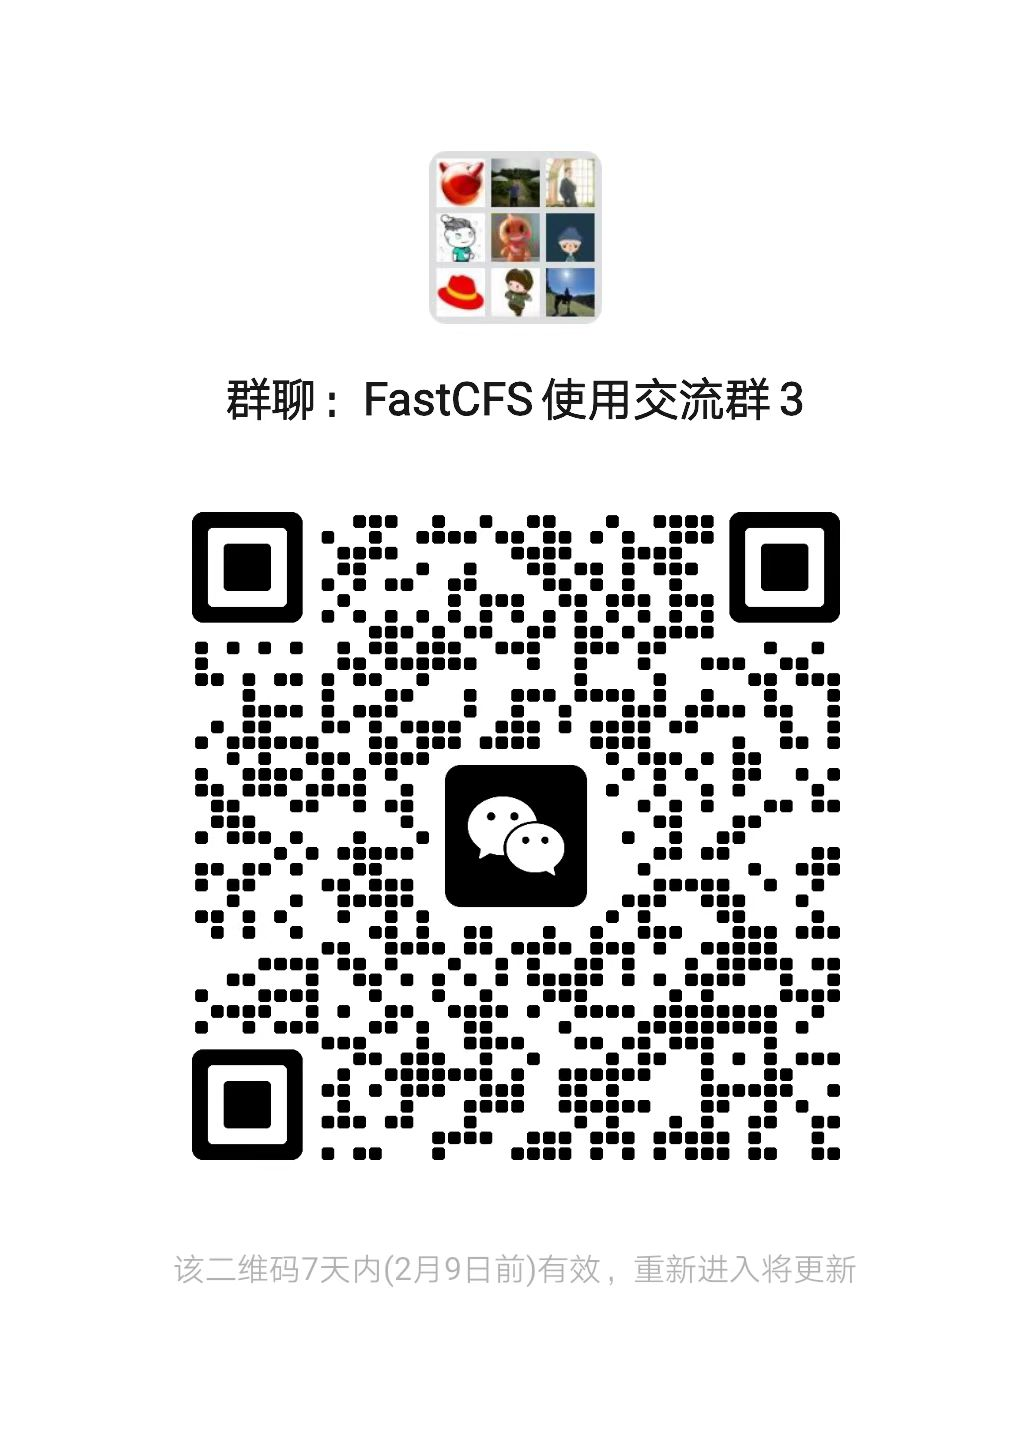
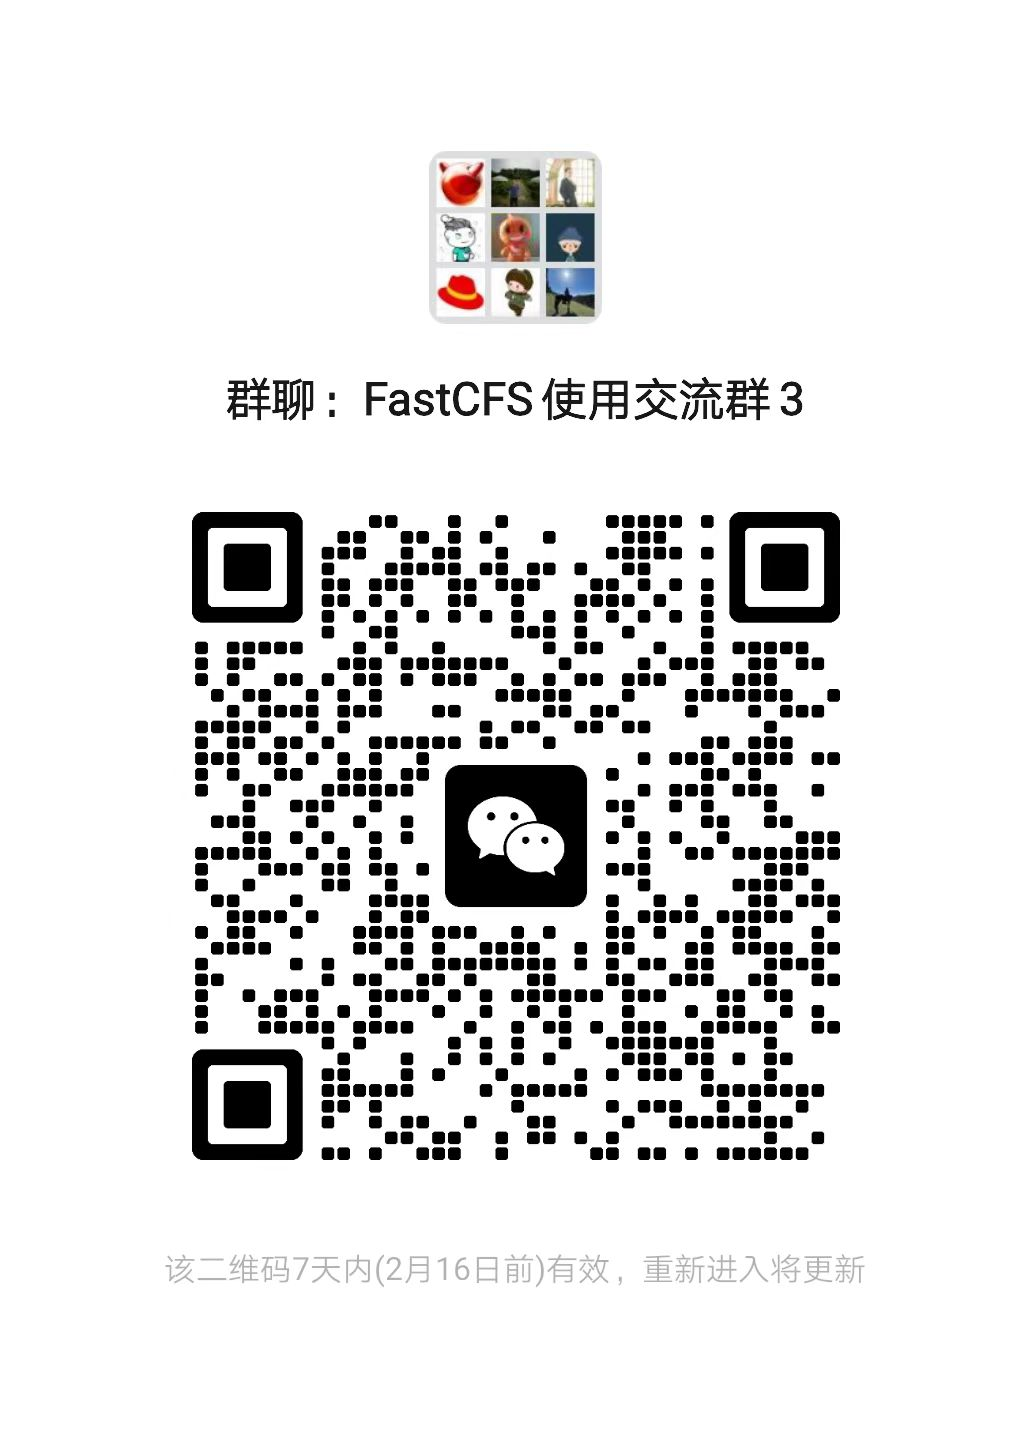
images/wechat_group.jpg refreshed

diff --git a/docs/FAQ-zh_CN.md b/docs/FAQ-zh_CN.md
@@ -114,3 +114,10 @@ mount -t nfs -onolock,nfsvers=4 172.16.168.131:/ /mnt/nfs
 ## 10. 为何删除了足够多的数据，df看到磁盘占用空间不见降低呢？
 
 FastCFS基于trunk file进行空间分配，目前trunk file只会增加而不会释放。文件数据删除后空间会回收利用，通过fuse client上df命令可以看到FastCFS的可用空间将增加。
+
+## 11. 如何将fastore的数据清除干净？
+
+一些特殊情况下，需要清除掉faststore的数据，此时要删除faststore的系统目录（server.conf中配置的base_path，默认为/opt/fastcfs/fstore）和用户数据存放目录（默认为/opt/faststore/data，配置多盘的情况要逐一删除数据目录），删除命令示例（文件删除后不可恢复，请再三确认后执行）：
+```
+rm -rf /opt/fastcfs/fstore /opt/faststore/data
+```
